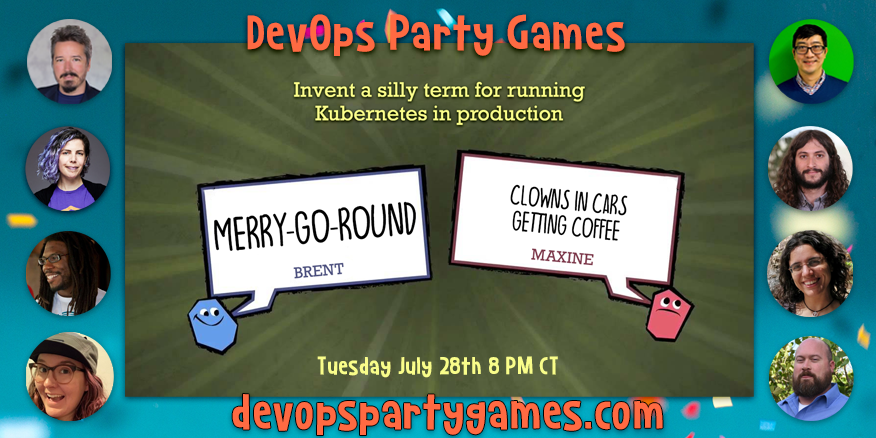
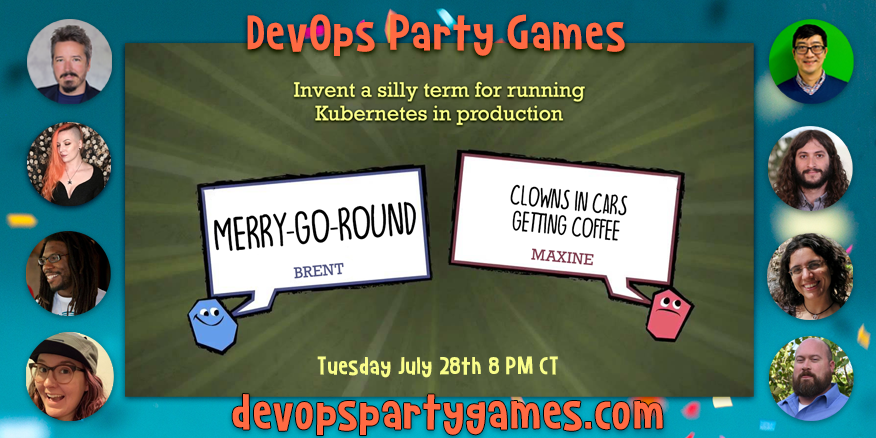
Update episode 2 guests

Changed region(s): [[0.863, 0.5046, 0.9863, 0.742], [0.0308, 0.2671, 0.1541, 0.5046]]

diff --git a/src/pages/posts/Episode-2.md b/src/pages/posts/Episode-2.md
@@ -16,7 +16,7 @@ Join the livestream at [twitch.tv/mattstratton](https://twitch.tv/mattstratton)
 ## Players
 <a href = "https://twitter.com/TheJewberwocky" class = "player-episode-page" target = "_blank"><img src = "/images/players/josh.png" alt="Josh Zimmerman" width="200" height="100" class = "player-episode-page"></a>
 <a href = "https://twitter.com/nimbinatus" class = "player-episode-page" target = "_blank"><img src = "/images/players/laura.png" alt="Laura Santamaria" width="200" height="100" class = "player-episode-page"></a>
-<a href = "https://twitter.com/IanColdwater" class = "player-episode-page" target = "_blank"><img src = "/images/players/ian.png" alt="Ian Coldwater" width="200" height="100" class = "player-episode-page"></a>
+<a href = "https://twitter.com/Dixie3Flatline" class = "player-episode-page" target = "_blank"><img src = "/images/players/kat.png" alt="Kat Cosgrove" width="200" height="100" class = "player-episode-page"></a>
 <a href = "https://twitter.com/julian_dunn" class = "player-episode-page" target = "_blank"><img src = "/images/players/julian.png" alt="Julian Dunn" width="200" height="100" class = "player-episode-page"></a>
 <a href = "https://twitter.com/taylor_atx" class = "player-episode-page" target = "_blank"><img src = "/images/players/taylor.png" alt="Taylor Barnett" width="200" height="100" class = "player-episode-page"></a>
 <a href = "https://twitter.com/wesley83" class = "player-episode-page" target = "_blank"><img src = "/images/players/wesley.png" alt="Wesley Faulkner" width="200" height="100" class = "player-episode-page"></a>
